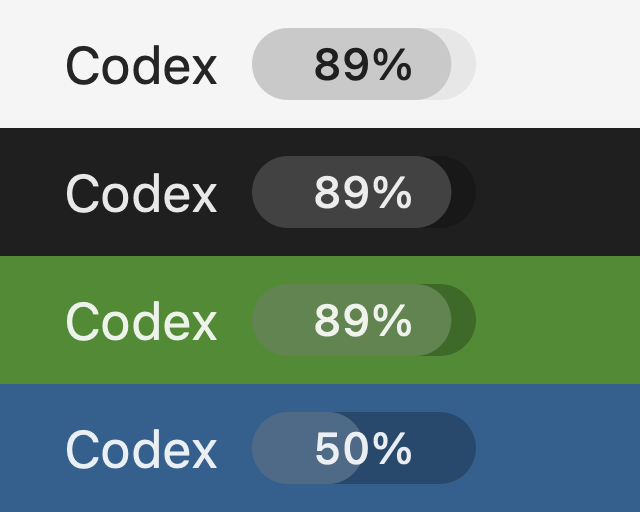
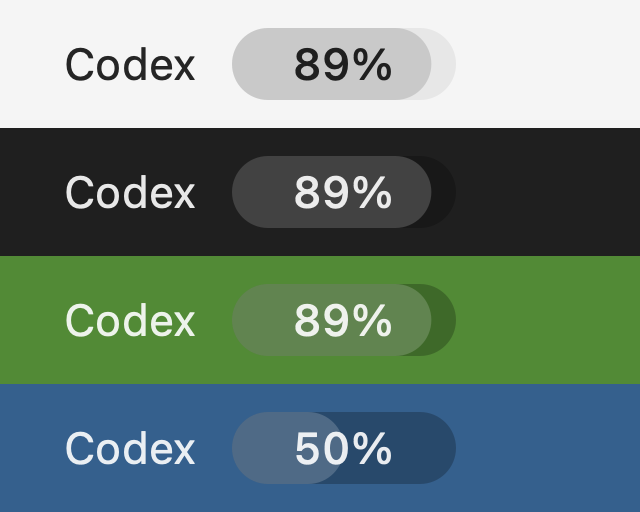
Reduce menu bar label size for balanced typography

diff --git a/main.swift b/main.swift
@@ -8,7 +8,7 @@ private final class MenuBarContentView: NSView {
     var remaining: Int?
     var percentText = "…"
     var needsAttention = false
-    private let nameFont = NSFont.menuBarFont(ofSize: 0)
+    private let nameFont = NSFont.systemFont(ofSize: 11, weight: .regular)
     private let percentFont = NSFont.monospacedDigitSystemFont(ofSize: 11, weight: .medium)
     private let barWidth: CGFloat = 56
 
